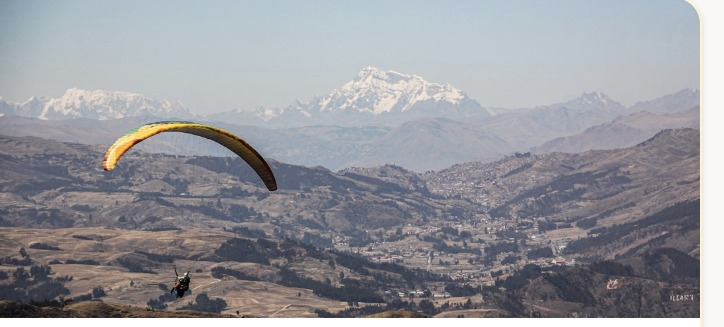
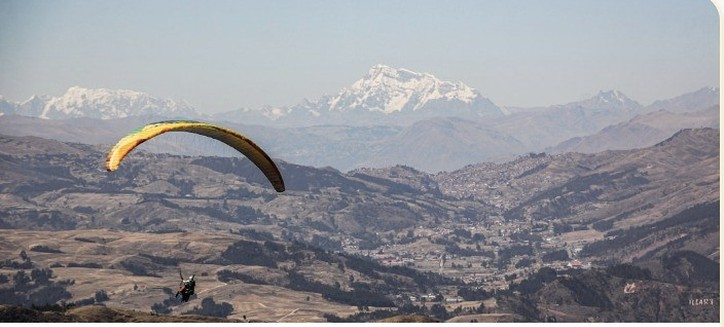
Fix uniform experience tile heights and crop Street Food from top.
Use fixed h-44 image frames, trim embedded white padding from photos, and top-crop the Colombo street food image.

diff --git a/src/pages/Experiences.tsx b/src/pages/Experiences.tsx
@@ -115,20 +115,20 @@ export default function Experiences() {
             ))}
           </div>
 
-          <div className="mt-10 grid grid-cols-1 gap-6 sm:grid-cols-2 lg:grid-cols-3">
+          <div className="mt-10 grid grid-cols-1 gap-6 sm:grid-cols-2 lg:grid-cols-3 lg:items-stretch">
             {filtered.map((exp) => (
               <div
                 key={exp.name}
-                className="overflow-hidden rounded-xl border border-gold-100 bg-white shadow-sm transition hover:shadow-md"
+                className="flex h-full flex-col overflow-hidden rounded-xl border border-gold-100 bg-white shadow-sm transition hover:shadow-md"
               >
-                <div className="aspect-[724/327] w-full overflow-hidden bg-forest-900/5">
+                <div className="relative h-44 w-full shrink-0 overflow-hidden bg-forest-900/5">
                   <img
                     src={exp.image}
                     alt={exp.name}
-                    className="block h-full w-full object-cover"
+                    className="absolute inset-0 h-full w-full object-cover"
                   />
                 </div>
-                <div className="p-4">
+                <div className="flex flex-1 flex-col p-4">
                   <span
                     className={`inline-block rounded-full px-3 py-1 text-[11px] font-semibold ${categoryBadgeStyles[exp.category]}`}
                   >
